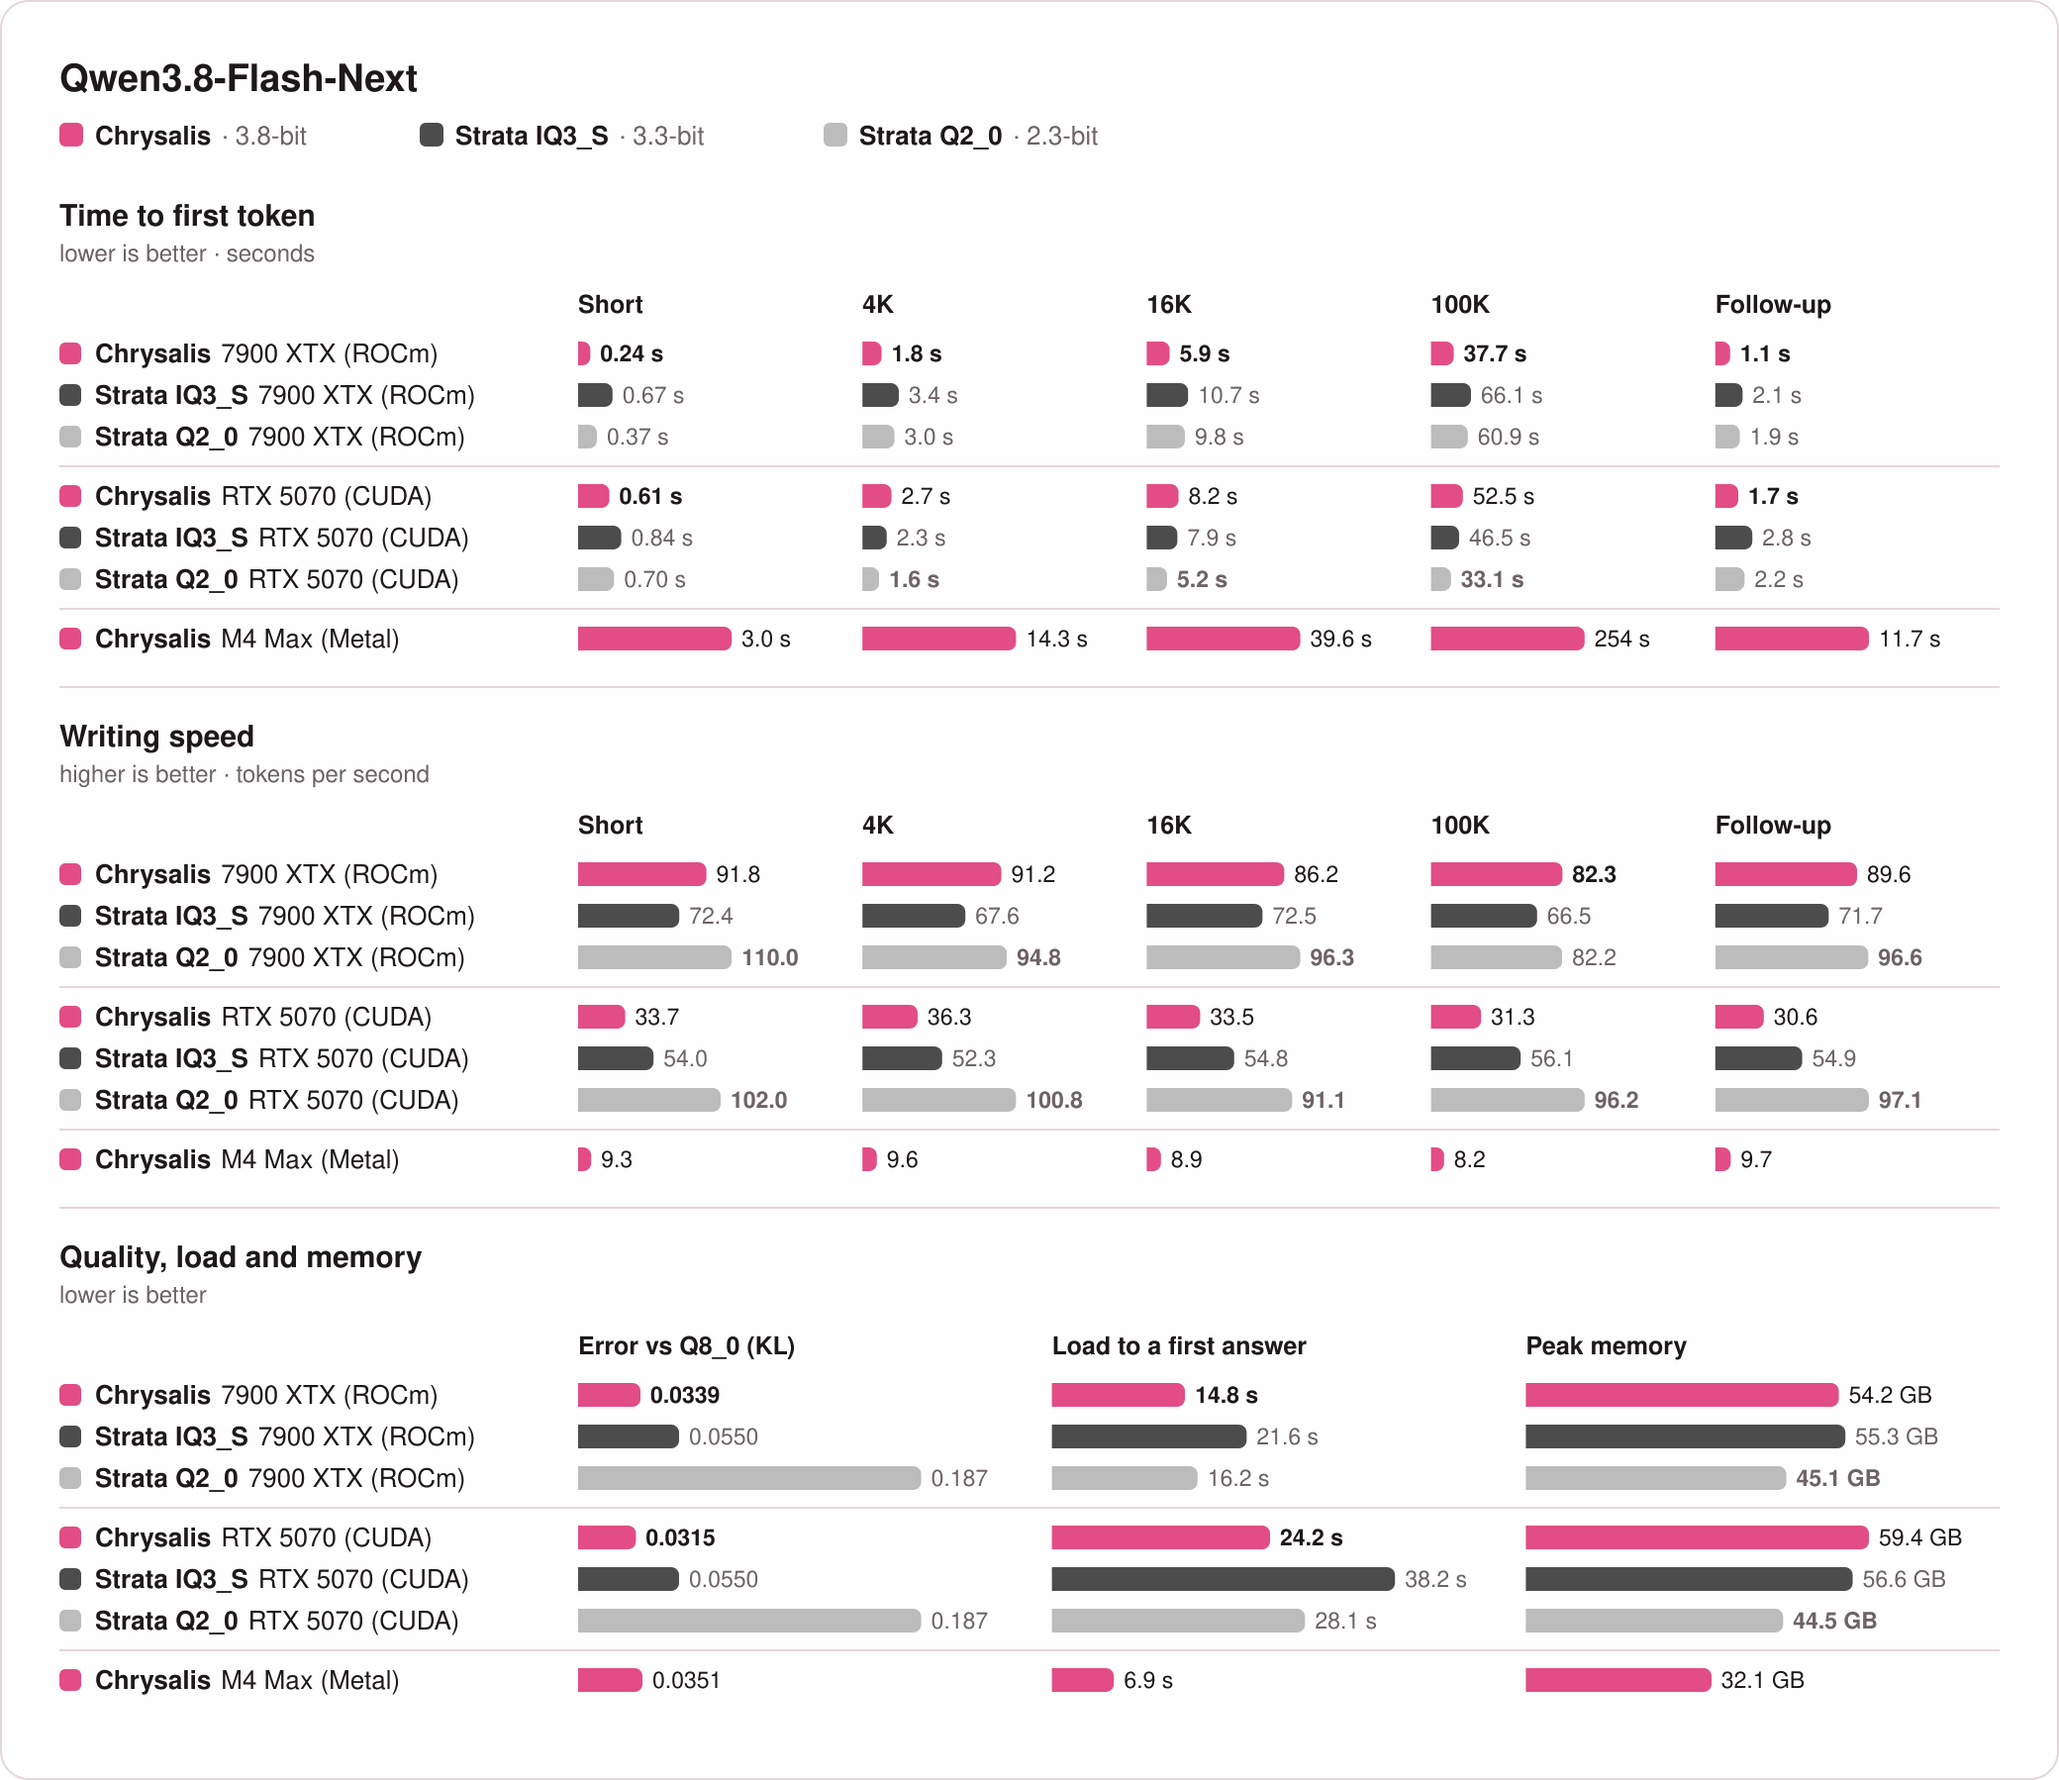
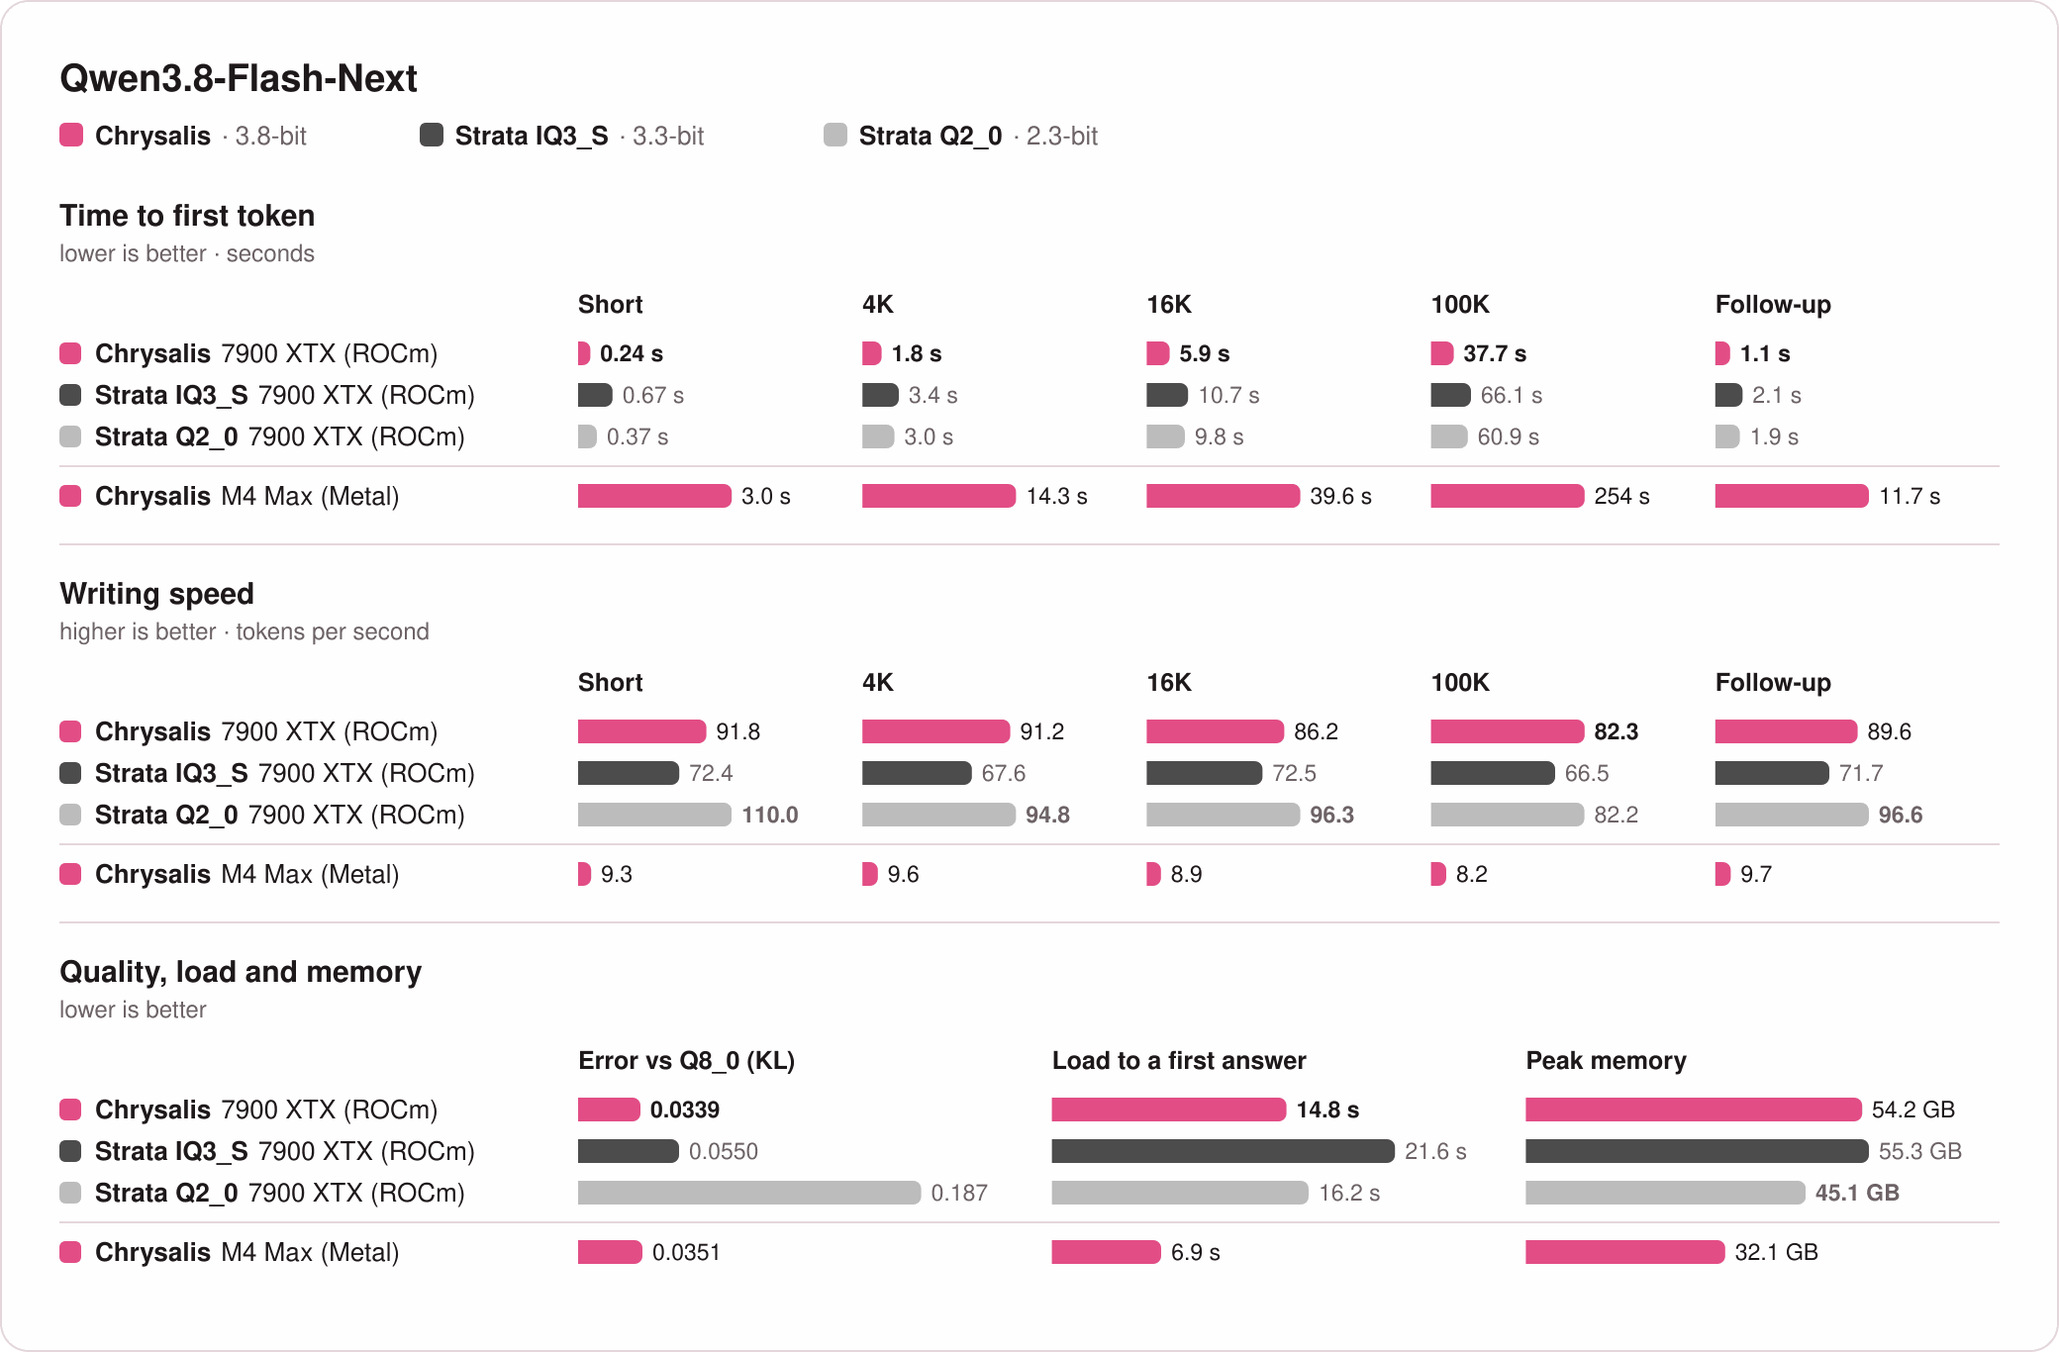
The RTX 5070's numbers are out of the README and its charts: that rented card was destroyed on November 11 and can't be measured again, so its rows in media/charts.json, both of its tables, and what the measurement notes said of it are gone, and the charts show the RX 7900 XTX and the M4 Max. Its ve

diff --git a/README.md b/README.md
@@ -17,13 +17,13 @@
 
 ## Qwen3.8-Flash-Next: Chrysalis vs Strata
 
-Chrysalis beats Strata's IQ3_S on every measure on the RX 7900. On the RTX 5070 it has the lowest error and the fastest load.
+Chrysalis beats Strata's IQ3_S on every measure on the RX 7900.
 
-<p align="center"><img src="media/flash-next.png" width="860" alt="Qwen3.8-Flash-Next in Chrysalis and Strata on an RX 7900 XTX, an RTX 5070 and an M4 Max: time to first token and writing speed at five prompt lengths, error against Q8_0, load time and memory"></p>
+<p align="center"><img src="media/flash-next.png" width="860" alt="Qwen3.8-Flash-Next in Chrysalis and Strata on an RX 7900 XTX and an M4 Max: time to first token and writing speed at five prompt lengths, error against Q8_0, load time and memory"></p>
 
 ## Qwen3.8-27B: Chrysalis vs llama.cpp and MLX
 
-<p align="center"><img src="media/27b.png" width="860" alt="Qwen3.8-27B in Chrysalis, llama.cpp and MLX on an RX 7900 XTX, an RTX 5070 and an M4 Max: time to first token and writing speed at five prompt lengths, error against Q8_0, load time and memory"></p>
+<p align="center"><img src="media/27b.png" width="860" alt="Qwen3.8-27B in Chrysalis, llama.cpp and MLX on an RX 7900 XTX and an M4 Max: time to first token and writing speed at five prompt lengths, error against Q8_0, load time and memory"></p>
 
 ## Editing artifacts by pointing at them
 
@@ -225,15 +225,14 @@ docker run -d --device /dev/kfd --device /dev/dri -p 127.0.0.1:8080:8080 -v chry
 
 **How Qwen3.8-Flash-Next was measured**
 
-- **Machines**: an RX 7900 XTX (24 GB) with a Ryzen 7 7800X3D and 64 GB of DDR5, an RTX 5070 (12 GB) with a Core
-  i5-11600KF and 64 GB of RAM, rented on vast.ai, both on Linux, and an M4 Max Mac Studio with 36 GB on macOS 27.2. One
-  engine ran at a time, and one client timed every request.
+- **Machines**: an RX 7900 XTX (24 GB) with a Ryzen 7 7800X3D and 64 GB of DDR5 on Linux, and an M4 Max Mac Studio with
+  36 GB on macOS 27.2. One engine ran at a time, and one client timed every request.
 - **Chrysalis**: its own file, 3.8 bits per expert weight, 63 GB plus a 54 GB lookup table read from disk.
-- **Strata**: IQ3_S (3.3 bits) and Q2_0 (2.3 bits). 0.2.6 on the RX 7900 with its RX 7900 switches on, and 0.2.9 on the
-  RTX 5070 with the setup its installer writes. Strata doesn't run on a Mac.
+- **Strata**: IQ3_S (3.3 bits) and Q2_0 (2.3 bits). 0.2.6 on the RX 7900 with its RX 7900 switches on. Strata doesn't run
+  on a Mac.
 - **Prompts**: short, 4K and 16K are Strata's standard benchmark, run through its own client code with 512-token answers.
   100K is the same kind of records at 98,878 tokens. The follow-up adds about 1,100 tokens to that chat.
-- **Rounds**: medians over two rounds on each PC and one on the Mac, run from October 30 to November 1, 2026.
+- **Rounds**: medians over two rounds on the RX 7900 and one on the Mac, run from October 30 to November 1, 2026.
 - **Error**: KL against Q8_0 over 1,082 tokens of prose, a technical explanation and Python. Strata's files ran in
   llama.cpp.
 - **Memory**: the peak private RAM of each server, pinned buffers included, and the peak footprint on the Mac.
@@ -255,24 +254,6 @@ docker run -d --device /dev/kfd --device /dev/dri -p 127.0.0.1:8080:8080 -v chry
 | Error vs Q8_0, mean KL over 1,082 tokens | 0.0339 | 0.0550 | 0.187 |
 | Load time, to a first answer | 14.8 s | 21.6 s | 16.2 s |
 | Peak memory | 54.2 GB | 55.3 GB | 45.1 GB |
-
-**Qwen3.8-Flash-Next, RTX 5070**
-
-| | Chrysalis RTX 5070 (CUDA) | Strata IQ3_S RTX 5070 (CUDA) | Strata Q2_0 RTX 5070 (CUDA) |
-| --- | ---: | ---: | ---: |
-| First token, short prompt | 0.61 s | 0.84 s | 0.70 s |
-| First token, 4K prompt | 2.7 s | 2.3 s | 1.6 s |
-| First token, 16K prompt | 8.2 s | 7.9 s | 5.2 s |
-| First token, 100K prompt | 52.5 s | 46.5 s | 33.1 s |
-| First token, follow-up in the 100K chat | 1.7 s | 2.8 s | 2.2 s |
-| Writing, short prompt | 33.7 tok/s | 54.0 tok/s | 102.0 tok/s |
-| Writing, 4K prompt | 36.3 tok/s | 52.3 tok/s | 100.8 tok/s |
-| Writing, 16K prompt | 33.5 tok/s | 54.8 tok/s | 91.1 tok/s |
-| Writing, 100K prompt | 31.3 tok/s | 56.1 tok/s | 96.2 tok/s |
-| Writing, follow-up in the 100K chat | 30.6 tok/s | 54.9 tok/s | 97.1 tok/s |
-| Error vs Q8_0, mean KL over 1,082 tokens | 0.0315 | 0.0550 | 0.187 |
-| Load time, to a first answer | 24.2 s | 38.2 s | 28.1 s |
-| Peak memory | 59.4 GB | 56.6 GB | 44.5 GB |
 
 **Qwen3.8-Flash-Next, M4 Max**
 
@@ -297,9 +278,9 @@ docker run -d --device /dev/kfd --device /dev/dri -p 127.0.0.1:8080:8080 -v chry
 - **Machines and prompts**: the same as above. The benchmark's thinking budget of 0 is left out, because Strata and
   llama.cpp read it differently.
 - **The file**: Chrysalis and llama.cpp ran the same 16 GB file, 4.65 bits per weight on average.
-- **llama.cpp**: commit 9c2e0e4 for HIP and CUDA, and Homebrew's build 11669 on the Mac. Flash attention, MTP with 3
+- **llama.cpp**: commit 9c2e0e4 for HIP, and Homebrew's build 11669 on the Mac. Flash attention, MTP with 3
   drafts, one slot and a 131K context. The RX 7900 ran every layer on the GPU with an 8-bit KV cache and prompt batches of
-  2,048. The RTX 5070 ran the 21 of 66 layers its own fit chose.
+  2,048.
 - **MLX**: 0.32.4 with mlx-lm 0.32.2 and mlx-community's 4-bit model, through `mlx_lm.server`, which has no MTP for this
   model. The 100K prompt ran with prefill steps of 512, because the default ran out of memory. The follow-up ran out of
   memory at 512 too.
@@ -323,24 +304,6 @@ docker run -d --device /dev/kfd --device /dev/dri -p 127.0.0.1:8080:8080 -v chry
 | Error vs Q8_0, mean KL over 1,082 tokens | 0.0117 | 0.0141 |
 | Load time, to a first answer | 1.6 s | 3.7 s |
 | Peak memory | 7.7 GB | 13.4 GB |
-
-**Qwen3.8-27B, RTX 5070**
-
-| | Chrysalis RTX 5070 (CUDA) | llama.cpp RTX 5070 (CUDA) |
-| --- | ---: | ---: |
-| First token, short prompt | 0.96 s | 2.1 s |
-| First token, 4K prompt | 6.2 s | 6.7 s |
-| First token, 16K prompt | 24.1 s | 24.0 s |
-| First token, 100K prompt | 199 s | 177 s |
-| First token, follow-up in the 100K chat | 4.3 s | 12.8 s |
-| Writing, short prompt | 8.9 tok/s | 4.3 tok/s |
-| Writing, 4K prompt | 7.9 tok/s | 3.6 tok/s |
-| Writing, 16K prompt | 7.4 tok/s | 2.4 tok/s |
-| Writing, 100K prompt | 5.3 tok/s | 0.8 tok/s |
-| Writing, follow-up in the 100K chat | 6.0 tok/s | 0.8 tok/s |
-| Error vs Q8_0, mean KL over 1,082 tokens | 0.0116 | 0.0115 |
-| Load time, to a first answer | 7.0 s | 7.6 s |
-| Peak memory | 17.4 GB | 17.3 GB |
 
 **Qwen3.8-27B, M4 Max**
 
